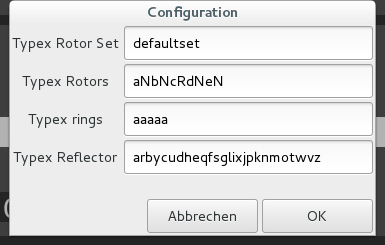
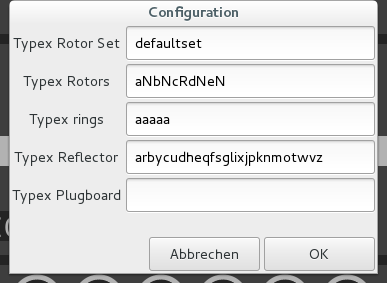
Added optional Typex plugboard. The simulator now implements all features of Typex Mark 22.

diff --git a/configurator.cpp b/configurator.cpp
@@ -1011,6 +1011,13 @@ void typex_configurator::get_keywords(vector<key_word_info>& infos)
     * can and must occur once in this seting.   
     */
     infos.push_back(key_word_info(KW_TYPEX_REFLECTOR, KEY_STRING, "Typex Reflector"));
+
+   /*
+    * Later Typex models had an optional plugboard. Allowed values for this field are therefore either the empty string
+    * (no plugboard) or a permutation of a-z. 
+    */
+    infos.push_back(key_word_info(KW_TYPEX_PLUGBOARD, KEY_STRING, "Typex Plugboard"));
+
     
     change_rotor_set(rotor_set_name);    
 }
@@ -1055,6 +1062,7 @@ void typex_configurator::get_config(map<string, string>& config_data, rotor_mach
     rmsk::simple_assert(machine == NULL, "programmer error: machine is not Typex");    
     string help;
     typex_stepper *stepper = dynamic_cast<typex_stepper *>(machine->get_stepping_gear());
+    string plugboard_config;
     
     config_data.clear();
 
@@ -1084,6 +1092,13 @@ void typex_configurator::get_config(map<string, string>& config_data, rotor_mach
     
     // Retrieve current reflector setting from machine
     config_data[KW_TYPEX_REFLECTOR] = get_reflector(machine->get_stepping_gear()->get_descriptor(UMKEHRWALZE).r->get_perm());
+    
+    if (machine->get_input_transform().get() != NULL)
+    {
+        plugboard_config = get_entry_plugboard(machine->get_input_transform().get());
+    }
+    
+    config_data[KW_TYPEX_PLUGBOARD] = plugboard_config;
 }
 
 unsigned int typex_configurator::configure_machine(map<string, string>& config_data, rotor_machine *machine_to_configure)
@@ -1099,6 +1114,7 @@ unsigned int typex_configurator::configure_machine(map<string, string>& config_d
     {
         typex_stepper *stepper = dynamic_cast<typex_stepper *>(machine->get_stepping_gear());        
         result = parse_config(config_data);
+        boost::shared_ptr<encryption_transform> plugboard_transform(NULL);
         
         if (result == CONFIGURATOR_OK)
         {
@@ -1122,6 +1138,14 @@ unsigned int typex_configurator::configure_machine(map<string, string>& config_d
             
             // Set reflector            
             machine->set_reflector(reflector);
+            
+            // Set plugboard
+            if (plugboard_perm != "")
+            {
+                plugboard_transform = boost::shared_ptr<encryption_transform>(rmsk::std_alpha()->make_perm_ptr(plugboard_perm.c_str()));
+            }
+            
+            machine->set_input_transform(plugboard_transform);
                            
             // Reset rotor positions. stepper->reset() must not be called as this would also reset
             // the ringstellung          
@@ -1193,6 +1217,15 @@ unsigned int typex_configurator::parse_config(map<string, string>& config_data)
         ringstellung = config_data[KW_TYPEX_RINGS];
         
         if (!check_rotor_spec(ringstellung, 'a', 'z', 5, false))
+        {
+            result = CONFIGURATOR_INCONSISTENT;
+            break;            
+        }        
+
+        // Verify that specified value for plugboard permutation is valid        
+        plugboard_perm = config_data[KW_TYPEX_PLUGBOARD];
+        
+        if ((plugboard_perm != "") && (!check_for_perm(plugboard_perm)))
         {
             result = CONFIGURATOR_INCONSISTENT;
             break;            

diff --git a/typex_test.cpp b/typex_test.cpp
@@ -1,5 +1,5 @@
 /***************************************************************************
- * Copyright 2016 Martin Grap
+ * Copyright 2017 Martin Grap
  * 
  * Licensed under the Apache License, Version 2.0 (the "License");
  * you may not use this file except in compliance with the License.
@@ -121,6 +121,7 @@ void test_typex::register_tests(composite_test_case *container)
     typex_conf[KW_TYPEX_ROTORS] = "aNbNcRdNeN";
     typex_conf[KW_TYPEX_RINGS] = "aaaaa";
     typex_conf[KW_TYPEX_REFLECTOR] = "arbycudheqfsglixjpknmotwvz";
+    typex_conf[KW_TYPEX_PLUGBOARD] = "";
     boost::scoped_ptr<configurator> c(configurator_factory::get_configurator(MNAME_TYPEX));            
     typex_t = c->make_machine(typex_conf);
     (dynamic_cast<enigma_family_base *>(typex_t))->move_all_rotors("aaaaa");

diff --git a/typex.cpp b/typex.cpp
@@ -1,5 +1,5 @@
 /***************************************************************************
- * Copyright 2016 Martin Grap
+ * Copyright 2017 Martin Grap
  * 
  * Licensed under the Apache License, Version 2.0 (the "License");
  * you may not use this file except in compliance with the License.
@@ -160,6 +160,7 @@ bool typex::randomize(string& param)
         machine_conf[KW_TYPEX_ROTORS] = selected_rotors;
         machine_conf[KW_TYPEX_RINGS] = ring_positions;
         machine_conf[KW_TYPEX_REFLECTOR] = rmsk::std_alpha()->perm_as_string(reflector_perm);
+        machine_conf[KW_TYPEX_PLUGBOARD] = "";
         boost::scoped_ptr<configurator> c(configurator_factory::get_configurator(machine_name));
         c->configure_machine(machine_conf, this);
         

diff --git a/configurator.h b/configurator.h
@@ -50,6 +50,7 @@
 #define KW_TYPEX_RINGS "rings"
 #define KW_TYPEX_REFLECTOR "reflector"
 #define KW_TYPEX_ROTOR_SET "rotorset"
+#define KW_TYPEX_PLUGBOARD "plugs"
 
 // Keywords for KL7
 #define KW_KL7_ROTORS "rotors"
@@ -447,6 +448,10 @@ protected:
     /*! \brief Holds the ringstellung that is to be used with this machine.
      */         
     string ringstellung;
+
+    /*! \brief Holds the value of the permutation that is realized via the plugboard.
+     */         
+    string plugboard_perm;
 
     /*! \brief Holds the rotor id for the UKW to use in the context of the current rotor set
      */      

diff --git a/rotorvis.cpp b/rotorvis.cpp
@@ -480,6 +480,7 @@ rotor_machine *rotor_visual::machine_factory(string name, vector<string>& rotor_
             machine_conf[KW_TYPEX_ROTORS] = "aNbNcRdNeN";
             machine_conf[KW_TYPEX_RINGS] = "aaaaa";
             machine_conf[KW_TYPEX_REFLECTOR] = "arbycudheqfsglixjpknmotwvz";
+            machine_conf[KW_TYPEX_PLUGBOARD] = "";
             result = c->make_machine(machine_conf);                      
 
             rotor_identifiers.push_back(STATOR1);
